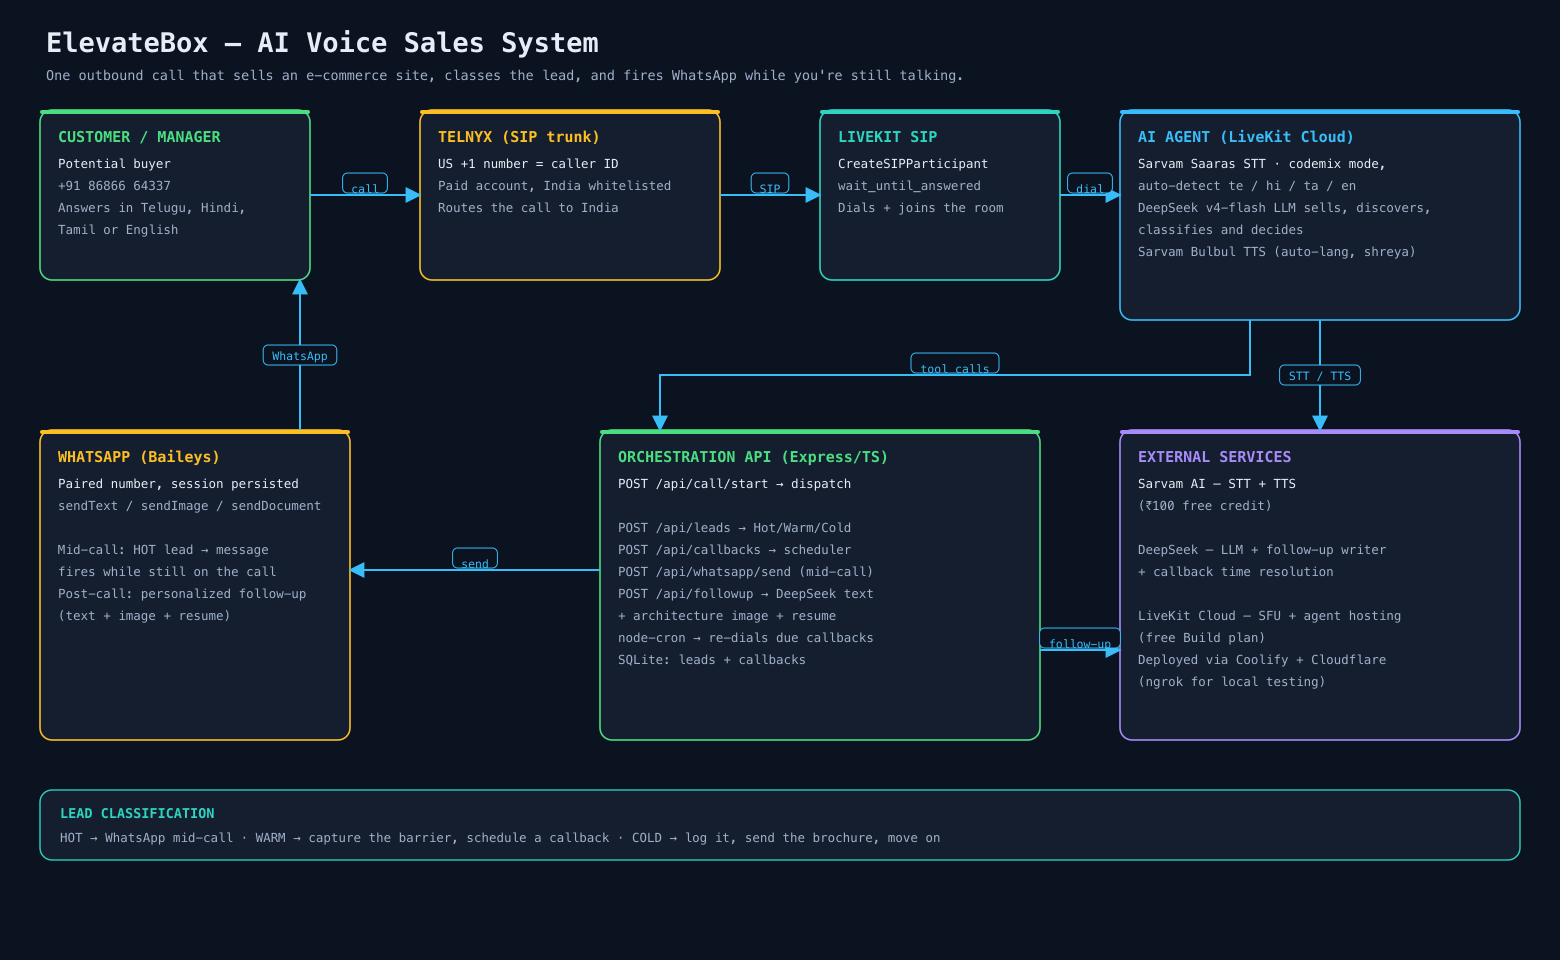
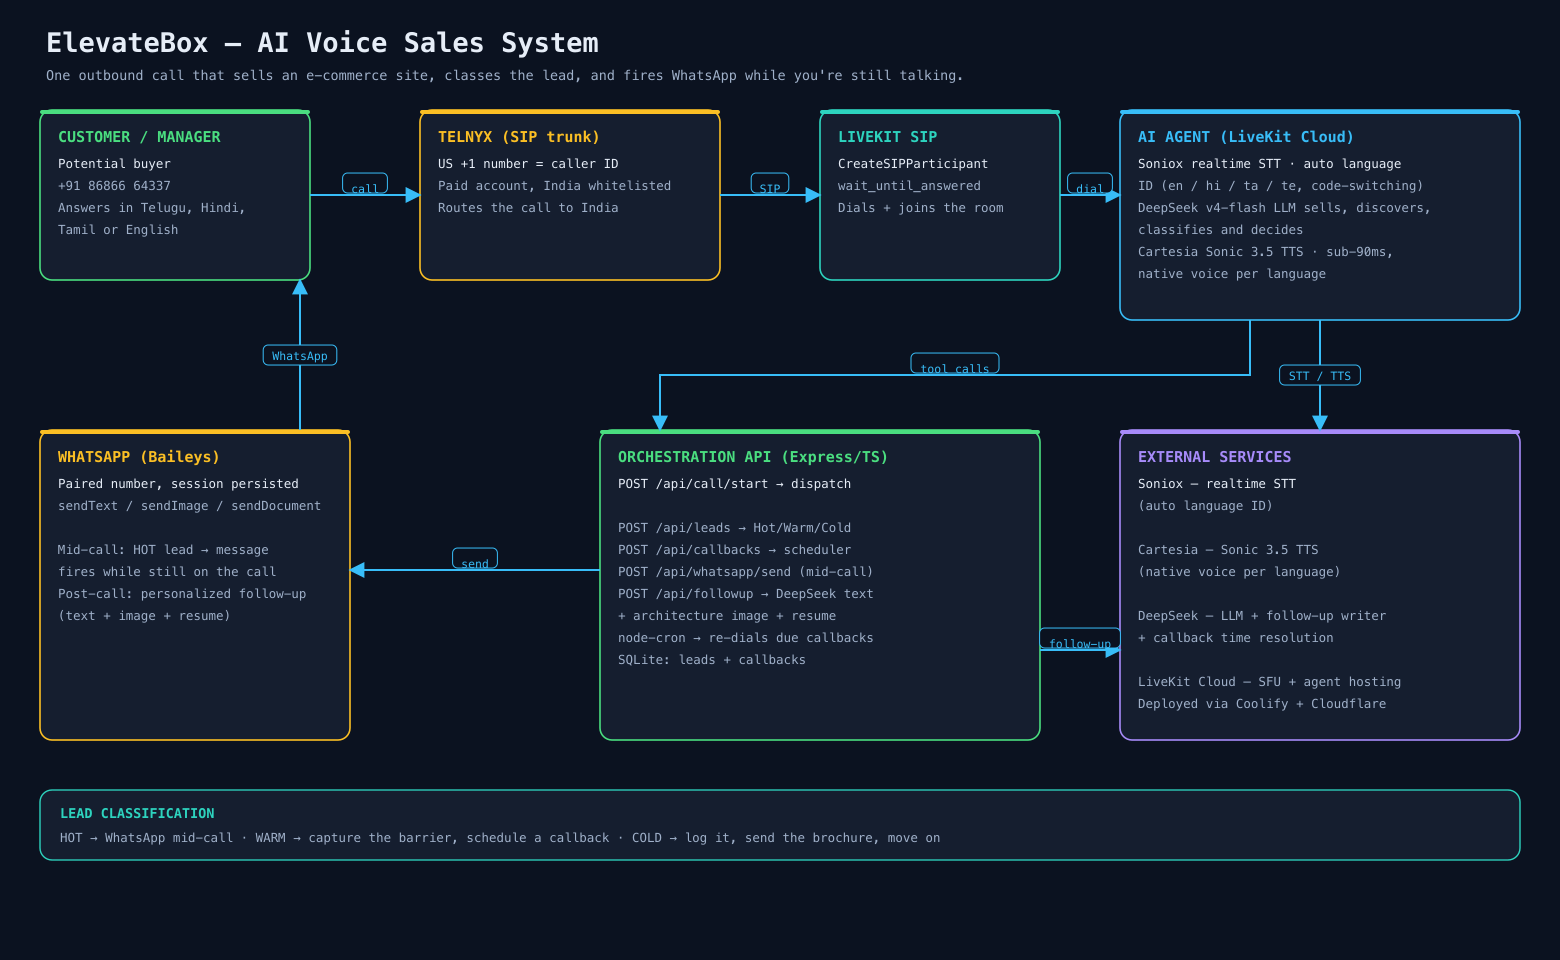
migrated-to-cartesia

diff --git a/agent/agent.py b/agent/agent.py
@@ -37,9 +37,9 @@ FROM_NUMBER = os.getenv("SIP_FROM_NUMBER", "")
 # Per-language Cartesia voices (override via env if needed). Switched together
 # with the language in the transcript listener.
 LANG_VOICES: dict[str, str] = {
-    "en": os.getenv("CARTESIA_VOICE_EN", "25d7abcb-4d6d-4aca-adce-8a1c85620c8b"),
+    "en": os.getenv("CARTESIA_VOICE_EN", "9626c31c-bec5-4cca-baa8-f8ba9e84c8bc"),
     "ta": os.getenv("CARTESIA_VOICE_TA", "01d7796d-ac10-4ea3-8df0-3cc04f2d25ff"),
-    "te": os.getenv("CARTESIA_VOICE_TE", "cf061d8b-a752-4865-81a2-57570a6e0565"),
+    "te": os.getenv("CARTESIA_VOICE_TE", "4418bb06-8329-49a1-bb11-53bb64ca0547"),
     "hi": os.getenv("CARTESIA_VOICE_HI", "bec003e2-3cb3-429c-8468-206a393c67ad"),
 }
 
@@ -82,11 +82,14 @@ def _build_session() -> AgentSession:
         )
     else:
         # Soniox real-time STT (default): auto language identification (handles
-        # en/ta/te/hi code-switching with no hints), plus aggressive endpoint
-        # tuning so the turn commits as soon as the caller pauses.
+        # en/ta/te/hi code-switching), plus aggressive endpoint tuning so the
+        # turn commits as soon as the caller pauses. Language hints bias the
+        # model toward our 4 languages (they don't restrict it), improving
+        # accuracy without breaking code-switching.
         stt = soniox.STT(
             params=soniox.STTOptions(
                 model="stt-rt-v5",
+                language_hints=["en", "hi", "ta", "te"],
                 enable_language_identification=True,
                 max_endpoint_delay_ms=500,
                 endpoint_latency_adjustment_level=3,
@@ -112,7 +115,7 @@ def _build_session() -> AgentSession:
         tts = cartesia.TTS(
             api_key=os.getenv("CARTESIA_API_KEY"),
             model="sonic-3.5",
-            voice=os.getenv("CARTESIA_VOICE_EN", "25d7abcb-4d6d-4aca-adce-8a1c85620c8b"),
+            voice=os.getenv("CARTESIA_VOICE_EN", "9626c31c-bec5-4cca-baa8-f8ba9e84c8bc"),
             language="en",
         )
 

diff --git a/README.md b/README.md
@@ -124,7 +124,7 @@ See `.env.example` for the full list. Key ones:
 | `SIP_OUTBOUND_TRUNK_ID` | Telnyx outbound trunk |
 | `SARVAM_API_KEY` | Sarvam STT/TTS (fallback only) |
 | `SONIOX_API_KEY` | Soniox realtime STT |
-| `CARTESIA_API_KEY` | Cartesia Sonic TTS |
+| `CARTESIA_API_KEY` | Cartesia Sonic TTS (per-language native voices) |
 | `DEEPSEEK_API_KEY` | LLM |
 | `API_SECRET` | Shared key for agent → API calls |
 
